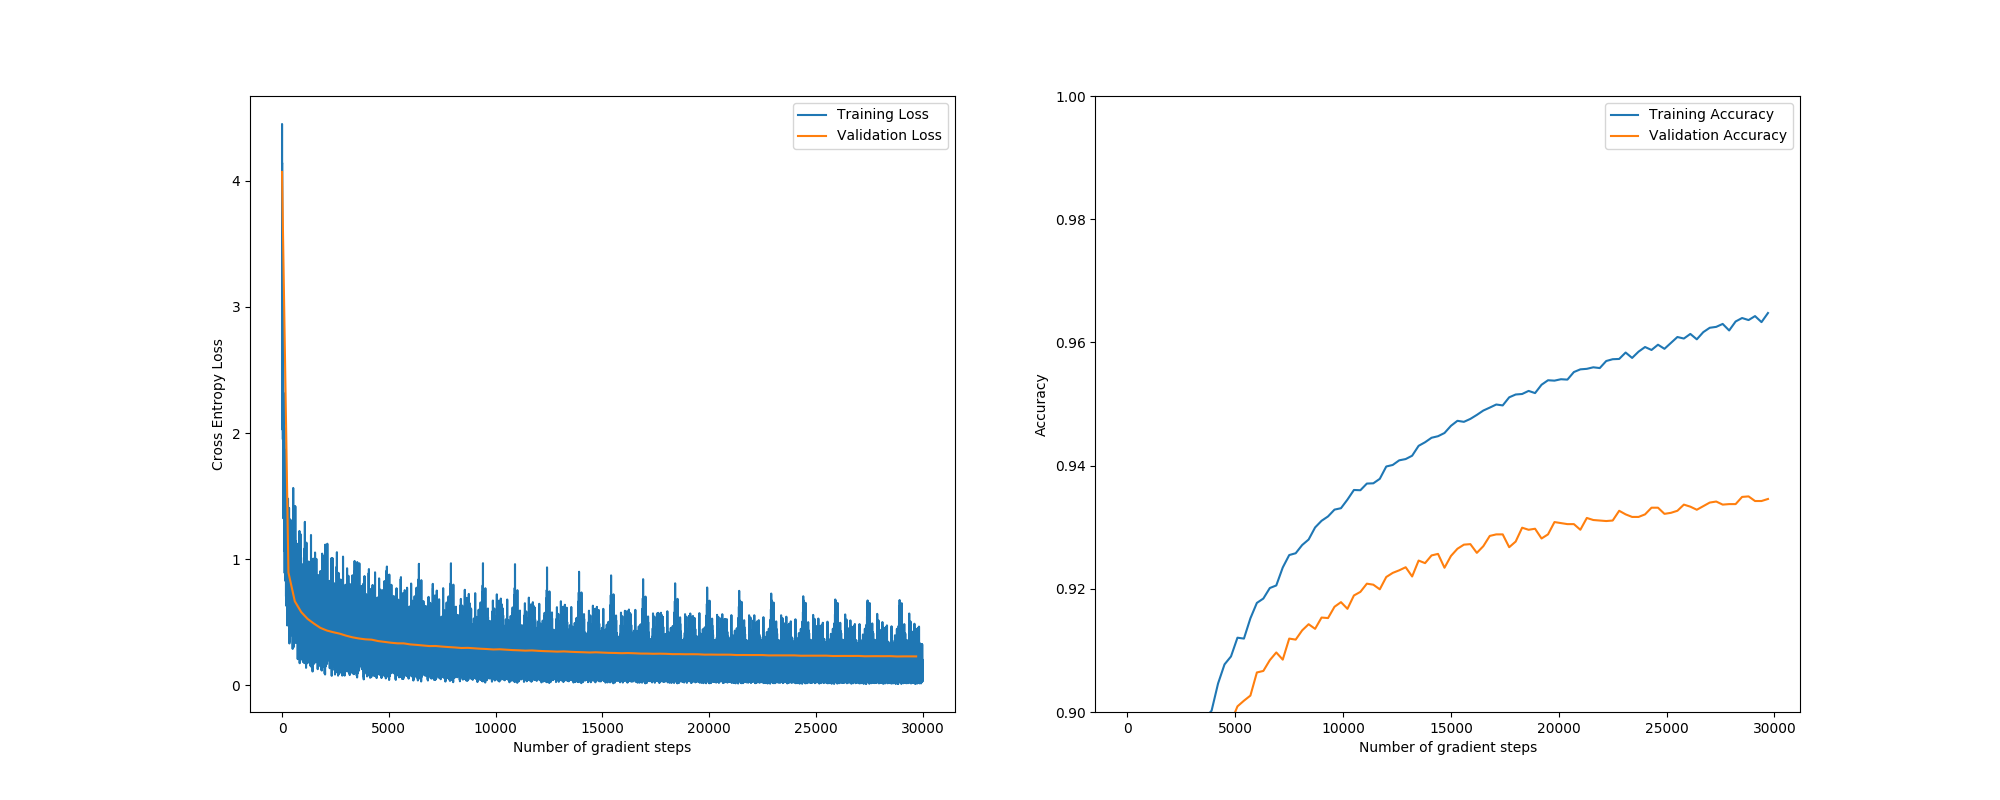
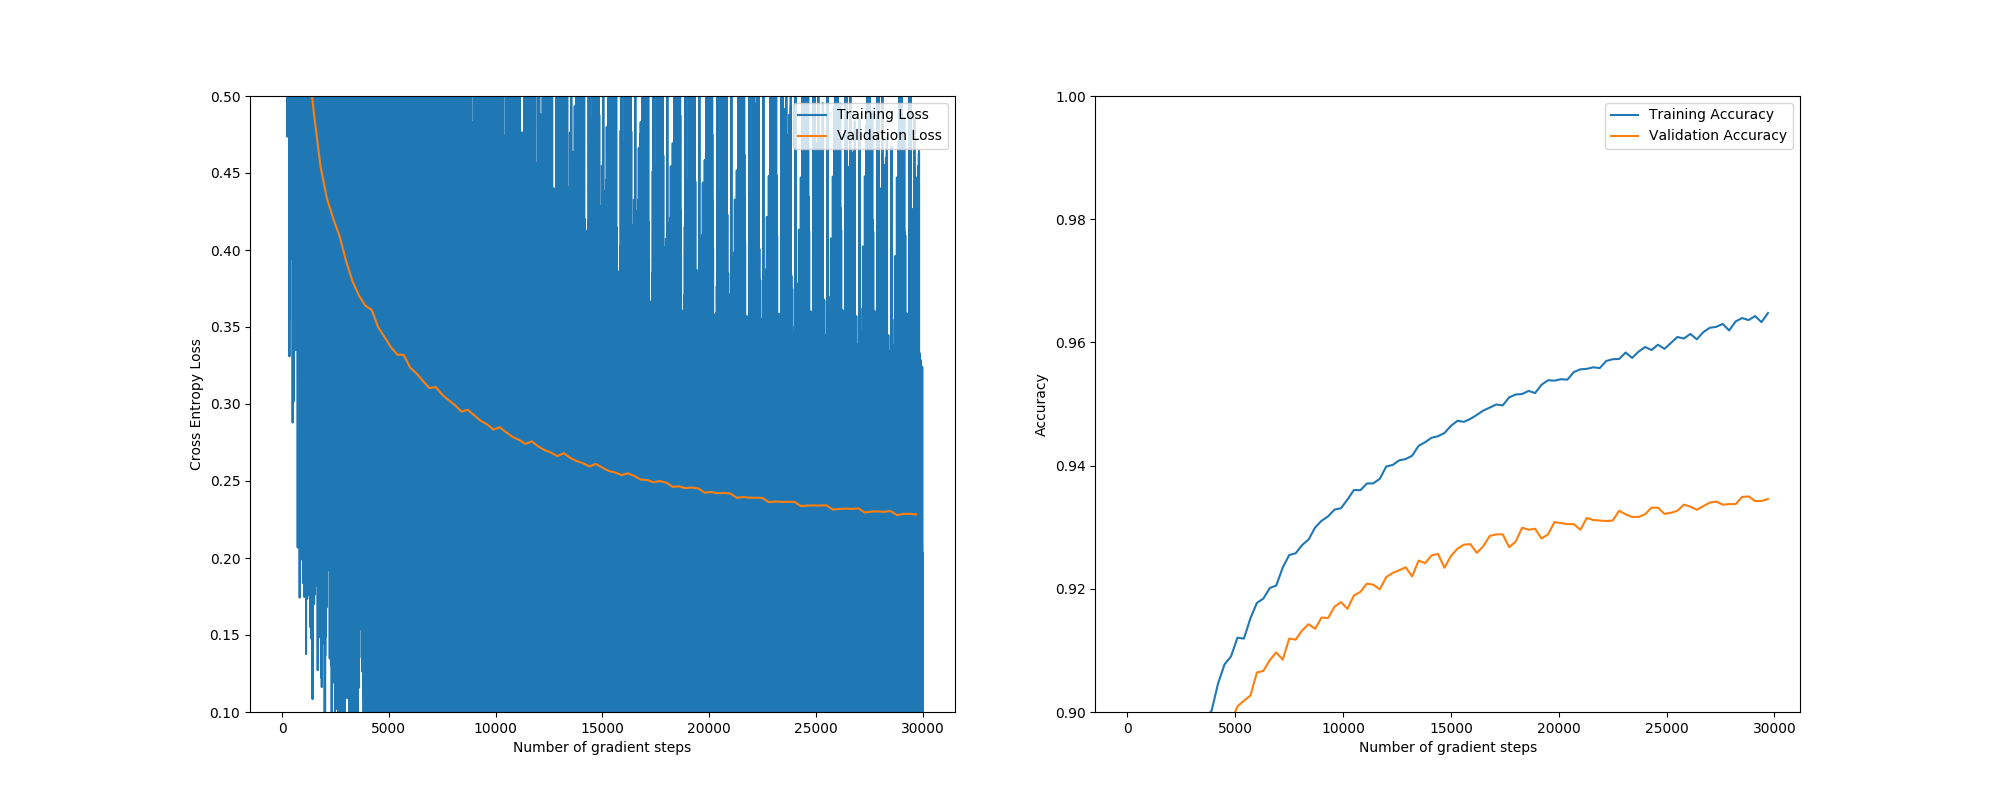
Shuffling in task3

Changed region(s): [[0.093, 0.0938, 0.465, 0.9062]]

diff --git a/assignment2/task3.py b/assignment2/task3.py
@@ -20,6 +20,12 @@ def calculate_accuracy(X: np.ndarray, targets: np.ndarray,
     return np.mean(np.argmax(targets, axis=1) == np.argmax(outputs, axis=1))
 
 
+def shuffle(X: np.ndarray, Y: np.ndarray):
+    concat = np.concatenate((X_train, Y_train), axis=1)
+    np.random.shuffle(concat)
+    return concat[:,0:X.shape[1]], concat[:,X.shape[1]:]
+
+
 def train(
         model: SoftmaxModel,
         datasets: typing.List[np.ndarray],
@@ -49,6 +55,8 @@ def train(
 
     global_step = 0
     for epoch in range(num_epochs):
+        if use_shuffle:
+            X_train, Y_train = shuffle(X_train, Y_train)
         for step in range(num_batches_per_epoch):
             start = step * batch_size
             end = start + batch_size
@@ -94,7 +102,7 @@ if __name__ == "__main__":
     momentum_gamma = .9  # Task 3 hyperparameter
 
     # Settings for task 3. Keep all to false for task 2.
-    use_shuffle = False
+    use_shuffle = True
     use_improved_sigmoid = False
     use_improved_weight_init = False
     use_momentum = False
@@ -148,7 +156,7 @@ if __name__ == "__main__":
     plt.ylabel("Cross Entropy Loss")
     plt.legend()
     plt.subplot(1, 2, 2)
-    
+
     # Plot accuracy
     plt.ylim([0.9, 1.0])
     utils.plot_loss(train_accuracy, "Training Accuracy")
